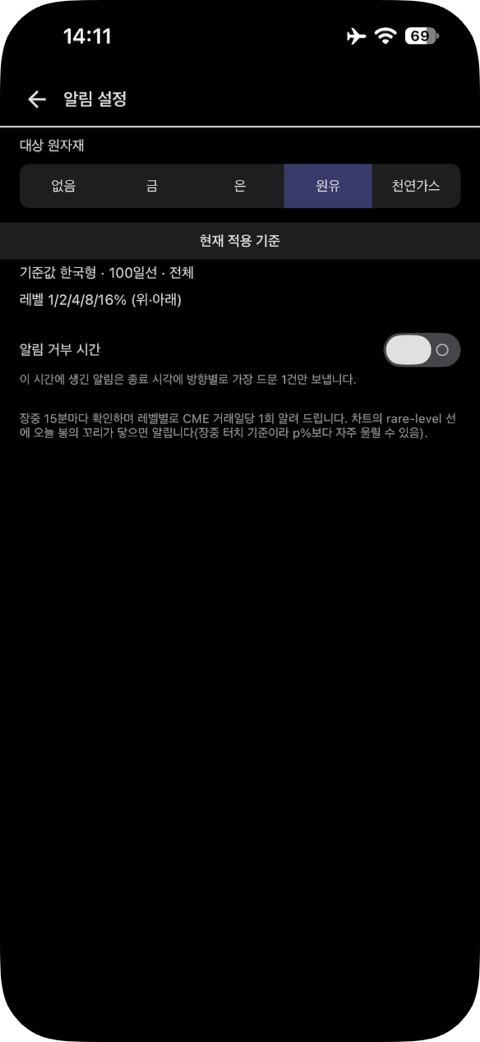
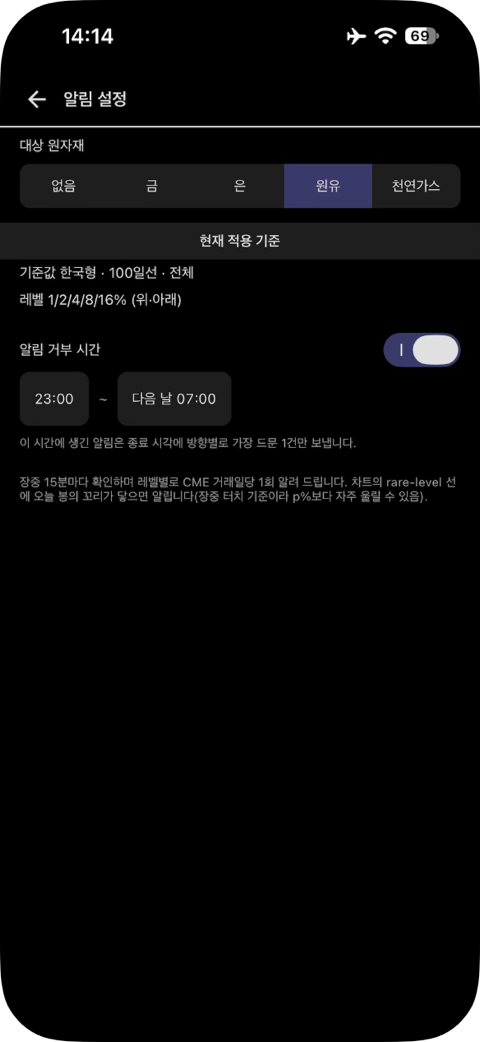
docs: use an HTML table for the README screenshots and show quiet hours in the alert settings capture

diff --git a/README.md b/README.md
@@ -3,11 +3,32 @@
 원자재 선물 기반 ETP(ETF/ETN)에 투자할 때 필요한데 기존 시세 서비스에는 없는 정보를 보여 주는 개인용 모바일 앱입니다.
 iOS·Android, 사용자 본인 1명용(스토어 미배포)으로 1인 풀스택 개발했습니다.
 
-| 원자재 목록 | 이격도차트 | 월물차트 | 월물커브 |
-|---|---|---|---|
-| <img src="docs/images/home.png" width="160" alt="원자재 목록"> | <img src="docs/images/disparity-chart.png" width="160" alt="이격도차트"> | <img src="docs/images/contract-chart.png" width="160" alt="월물차트"> | <img src="docs/images/curve.png" width="160" alt="월물커브"> |
-| **ETP 목록** | **휴장 달력** | **설정** | **알림 설정** |
-| <img src="docs/images/etp-list.png" width="160" alt="ETP 목록"> | <img src="docs/images/calendar.png" width="160" alt="휴장 달력"> | <img src="docs/images/settings.png" width="160" alt="설정"> | <img src="docs/images/alert-settings.png" width="160" alt="알림 설정"> |
+<table>
+  <tr>
+    <th>원자재 목록</th>
+    <th>이격도차트</th>
+    <th>월물차트</th>
+    <th>월물커브</th>
+  </tr>
+  <tr>
+    <td><img src="docs/images/home.png" width="160" alt="원자재 목록"></td>
+    <td><img src="docs/images/disparity-chart.png" width="160" alt="이격도차트"></td>
+    <td><img src="docs/images/contract-chart.png" width="160" alt="월물차트"></td>
+    <td><img src="docs/images/curve.png" width="160" alt="월물커브"></td>
+  </tr>
+  <tr>
+    <th>ETP 목록</th>
+    <th>휴장 달력</th>
+    <th>설정</th>
+    <th>알림 설정</th>
+  </tr>
+  <tr>
+    <td><img src="docs/images/etp-list.png" width="160" alt="ETP 목록"></td>
+    <td><img src="docs/images/calendar.png" width="160" alt="휴장 달력"></td>
+    <td><img src="docs/images/settings.png" width="160" alt="설정"></td>
+    <td><img src="docs/images/alert-settings.png" width="160" alt="알림 설정"></td>
+  </tr>
+</table>
 
 ## 왜 만들었나
 
